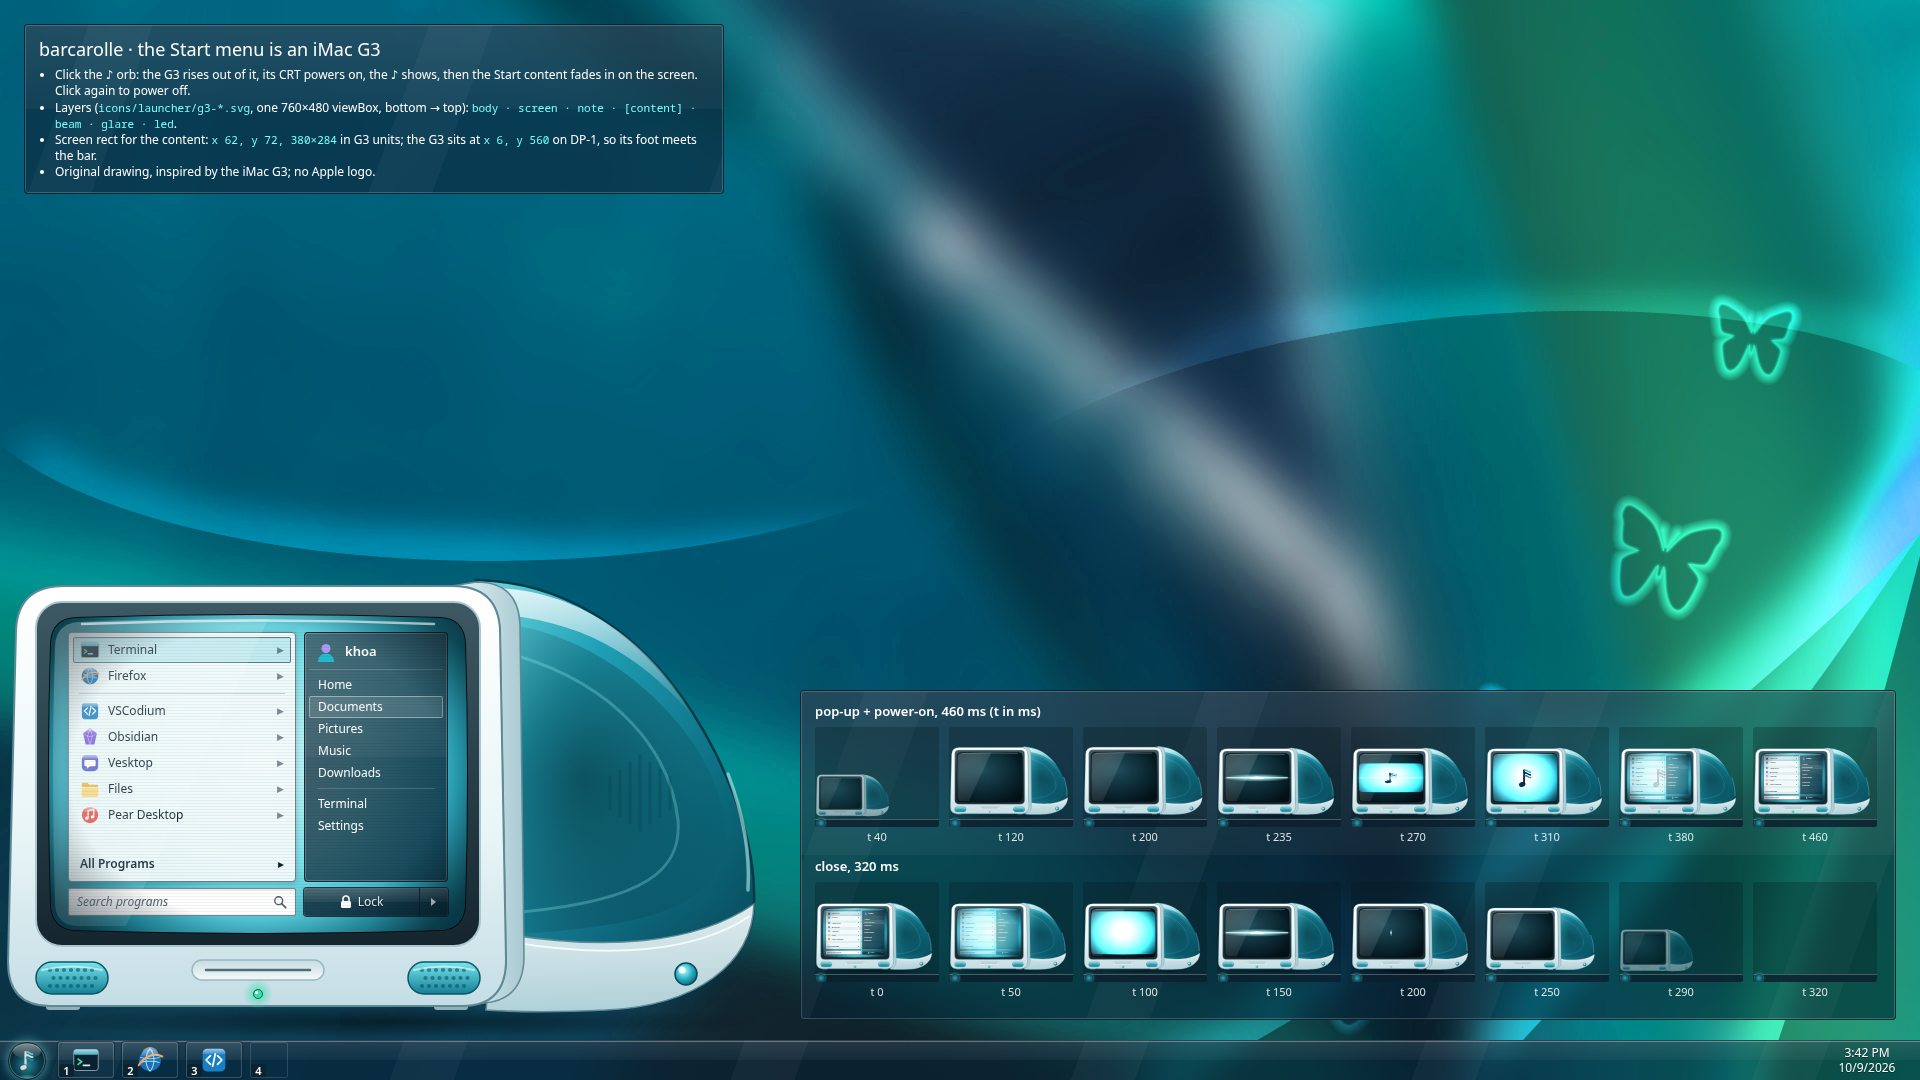
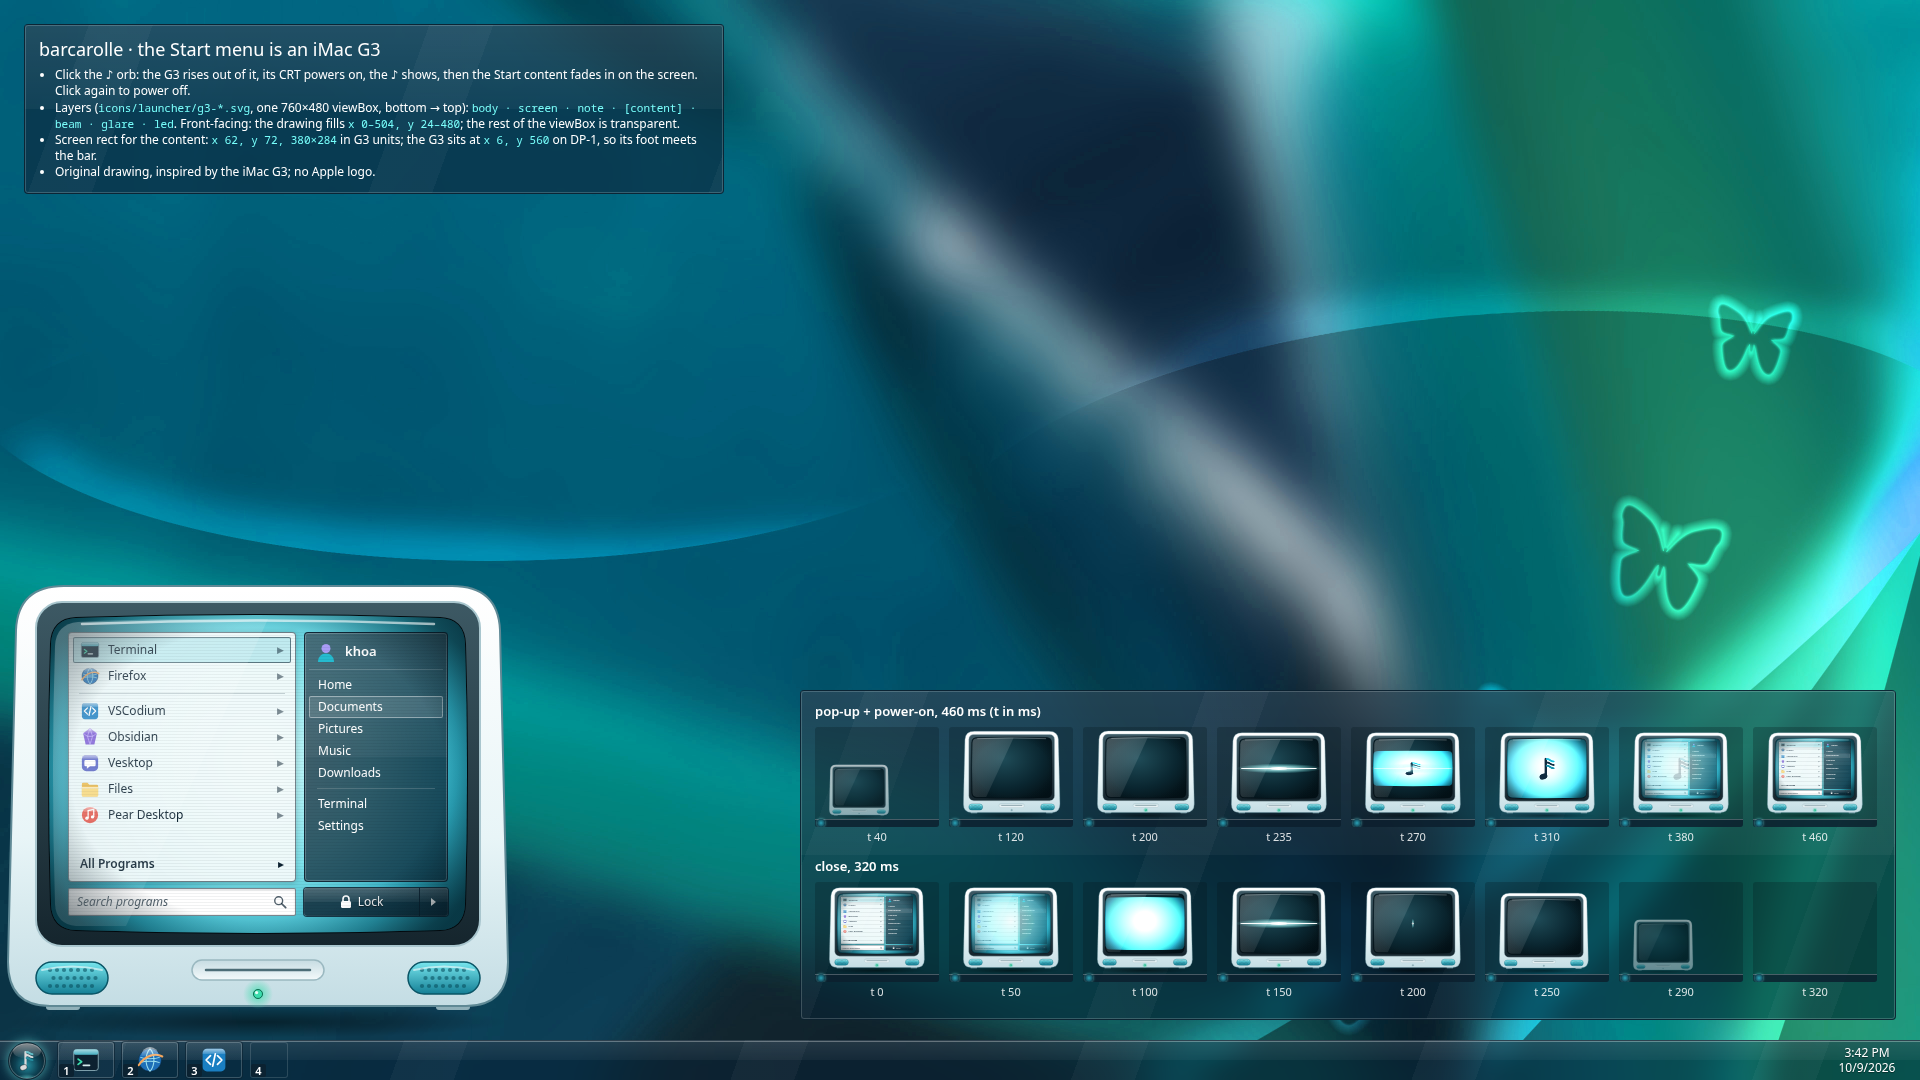
barcarolle start: the G3 faces front, its back removed

Changed region(s): [[0.25, 0.5194, 0.9688, 0.9472], [0.2188, 0.0917, 0.3438, 0.1222], [0.0938, 0.0917, 0.1875, 0.1222]]

diff --git a/song/songbook/barcarolle/design/launcher-g3.html b/song/songbook/barcarolle/design/launcher-g3.html
@@ -87,7 +87,7 @@ body{font:12px/1.35 var(--ui);color:#fff}
     <h1>barcarolle · the Start menu is an iMac G3</h1>
     <ul>
       <li>Click the ♪ orb: the G3 rises out of it, its CRT powers on, the ♪ shows, then the Start content fades in on the screen. Click again to power off.</li>
-      <li>Layers (<code>icons/launcher/g3-*.svg</code>, one 760×480 viewBox, bottom → top): <code>body · screen · note · [content] · beam · glare · led</code>.</li>
+      <li>Layers (<code>icons/launcher/g3-*.svg</code>, one 760×480 viewBox, bottom → top): <code>body · screen · note · [content] · beam · glare · led</code>. Front-facing: the drawing fills <code>x 0–504, y 24–480</code>; the rest of the viewBox is transparent.</li>
       <li>Screen rect for the content: <code>x 62, y 72, 380×284</code> in G3 units; the G3 sits at <code>x 6, y 560</code> on DP-1, so its foot meets the bar.</li>
       <li>Original drawing, inspired by the iMac G3; no Apple logo.</li>
     </ul>
@@ -182,9 +182,9 @@ function strip(id, tracks, from, times) {
     cell.innerHTML = '<div class="mbar"></div><div class="morb"></div>';
     const g = document.createElement("div"); g.className = "g3"; build(g);
     // shrunk about the foot so it stands on the mini bar
-    g.style.left = "1px"; g.style.top = (100 - 8 - 480) + "px";
+    g.style.left = "14px"; g.style.top = (100 - 8 - 480) + "px";
     paint(g, at(tracks, t, from));
-    g.style.transform = `scale(${.155 * at(tracks, t, from)["g3.scale"]})`;
+    g.style.transform = `scale(${.19 * at(tracks, t, from)["g3.scale"]})`;
     g.style.transformOrigin = "0 480px";
     cell.appendChild(g); wrap.appendChild(cell);
     const l = document.createElement("div"); l.className = "lab"; l.textContent = "t " + t; wrap.appendChild(l);

diff --git a/song/songbook/barcarolle/design/intent.md b/song/songbook/barcarolle/design/intent.md
@@ -94,16 +94,17 @@ reverses it: the content fades, the CRT collapses to a dot and the G3 sinks
 back into the orb. The orb itself stays the dark-glass ♪ orb. Board:
 `launcher-g3.html` (rendered to `launcher-g3.png`); click its orb to replay.
 
-- **Look**: front view with the back showing to the right. Frosted
-  ice-white front with a flat, low crown so the screen takes most of it; a
-  dark CRT well round a screen with slightly bulged sides; two teal speaker
-  grilles at the bottom corners and a drive slot with the power LED under
-  it; a thin ice side; a translucent Bondi-teal back that falls from the
-  top of the front in one long curve, reaching furthest back low down, with
-  the CRT funnel, a vent grille and a gloss streak visible inside; a frosted
-  white wrap round its foot carrying a round teal button. No Apple logo.
-- **Size and place**: 760×480 at 1:1 on DP-1, at x 6, y 560, so its foot
-  meets the bar top (y 1040).
+- **Look**: front-facing, no back. A frosted ice-white front, symmetric
+  about the screen centre, with a flat, low crown so the screen takes most
+  of it; a dark CRT well round a screen with slightly bulged sides; two
+  teal speaker grilles at the bottom corners, a drive slot between them
+  with the power LED under it; two short feet; a soft floor shadow. No
+  Apple logo.
+- **Size and place**: a 760×480 viewBox at 1:1 on DP-1, at x 6, y 560, so
+  its foot meets the bar top (y 1040). The drawing fills only **x 0–504,
+  y 24–480** of it (front shell x 2–502, y 26–446; feet to y 450; shadow
+  to y 478); the rest is transparent, so a window may be cropped to that
+  box without moving anything.
 - **Screen rect** (where the content goes), in G3 units: **x 62, y 72,
   380×284**, clipped to a 10px radius. The lit glass around it is the
   `screen` layer; the content sits inside its bulge.
@@ -130,7 +131,7 @@ masks, clips or text), so QtSvg renders them as Chromium does.
 
 | layer | holds | animated |
 |---|---|---|
-| `g3-body.svg` | shadow, teal back and its insides, wrap and button, ice side, front, dark screen, speakers, slot, dull LED | with the whole G3 |
+| `g3-body.svg` | shadow, feet, front, dark screen, speakers, slot, dull LED | with the whole G3 |
 | `g3-screen.svg` | the lit screen glass | opacity, yScale, brightness |
 | `g3-note.svg` | the ♪ on the lit screen, with a soft halo | opacity, yScale, brightness (with the screen) |
 | *content* | the Start content (QML), in the screen rect | opacity |
